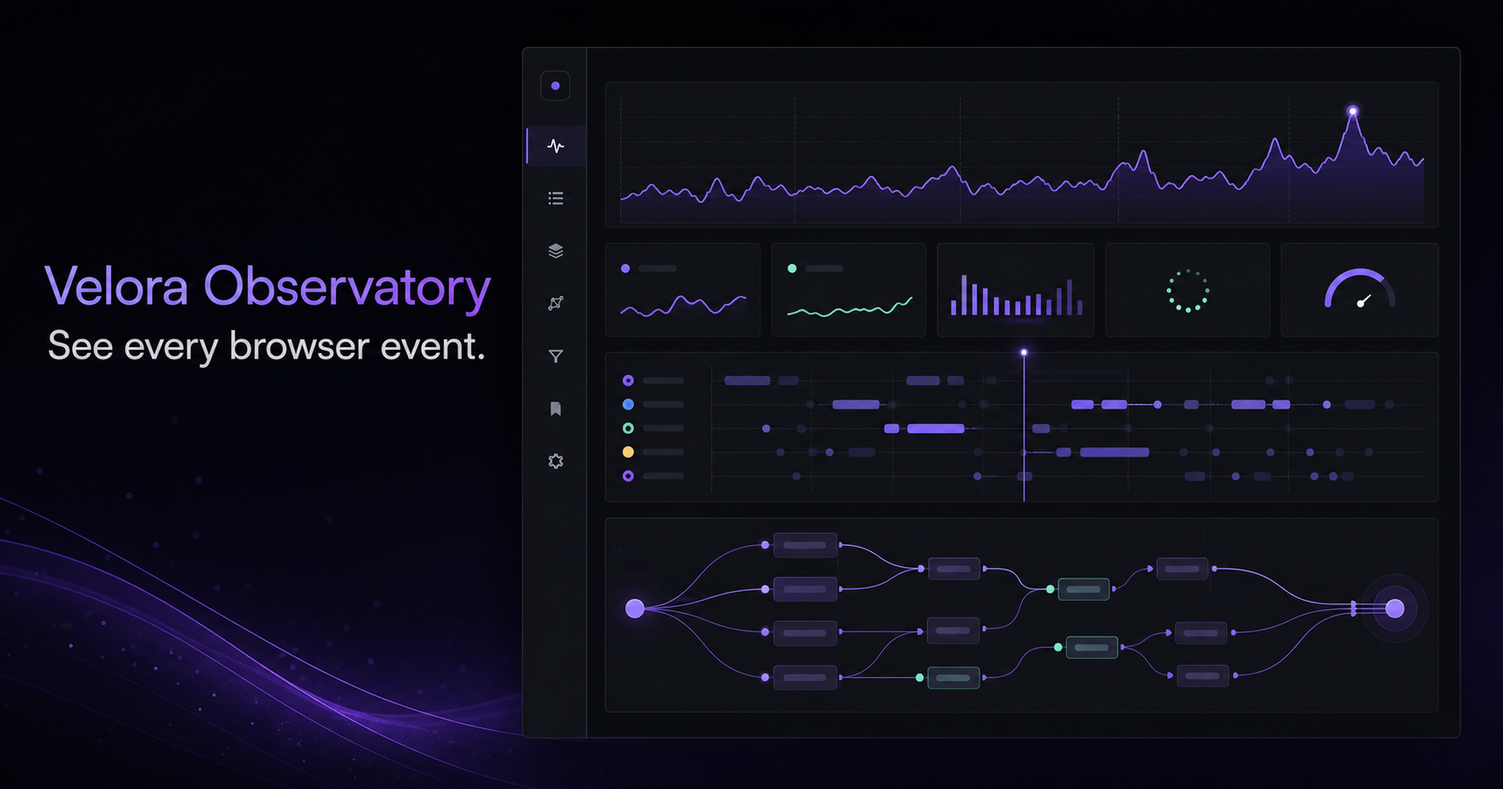
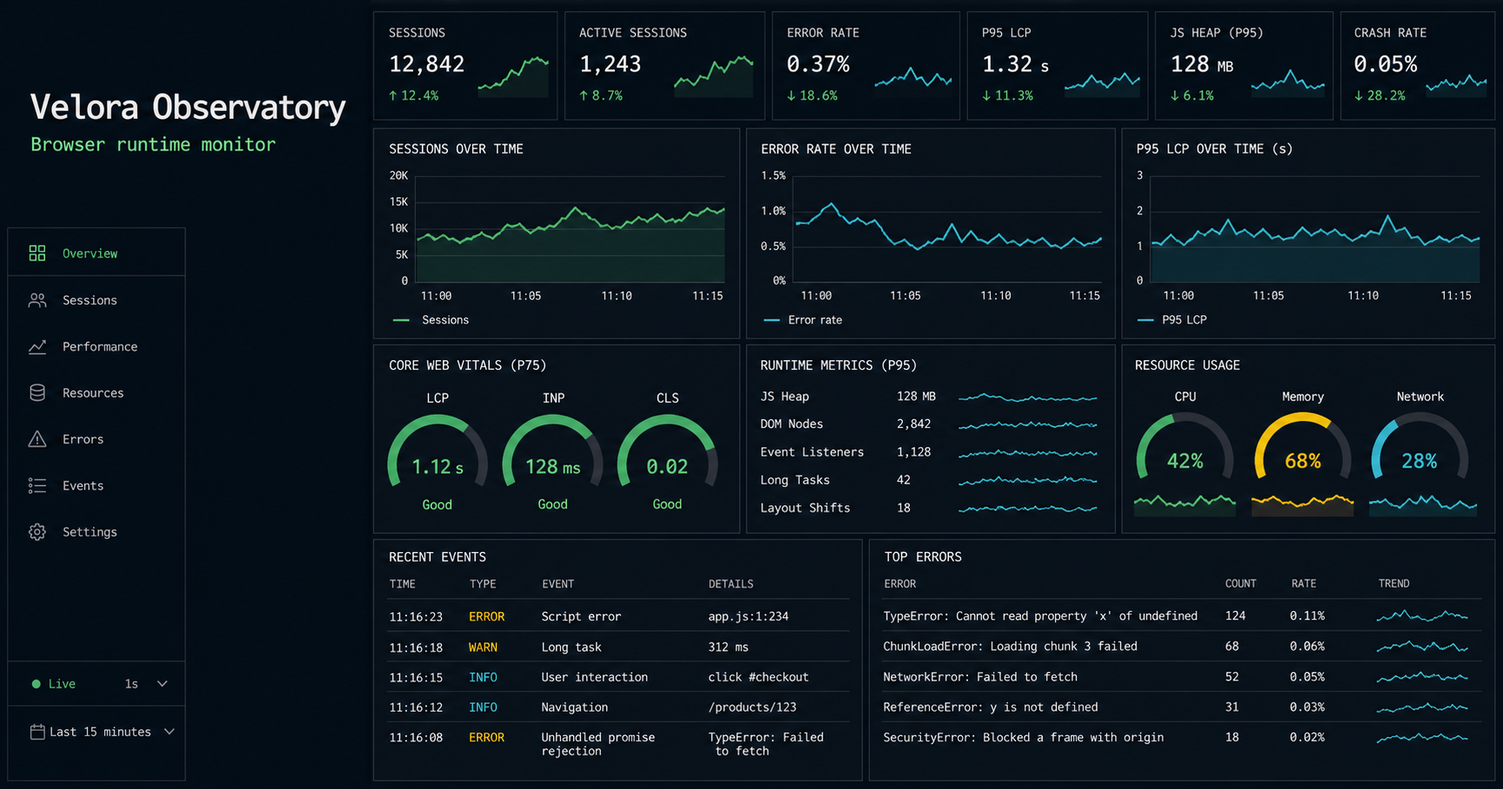
Refine Observatory monitor visual system

diff --git a/app/globals.css b/app/globals.css
@@ -2,48 +2,52 @@
 @import "@xterm/xterm/css/xterm.css";
 
 :root {
-  --bg: #080a0d;
-  --panel: #0e1116;
-  --panel-2: #11151b;
-  --border: rgba(255,255,255,.075);
-  --text: #f0f2f5;
-  --muted: #8a94a3;
-  --faint: #5d6673;
-  --violet: #8f7cff;
-  --violet-soft: rgba(143,124,255,.13);
+  --bg: oklch(0.08 0.015 260);
+  --panel: oklch(0.12 0.02 260);
+  --panel-2: oklch(0.15 0.02 260);
+  --border: oklch(0.25 0.02 260);
+  --text: oklch(0.95 0.01 240);
+  --muted: oklch(0.6 0.03 240);
+  --faint: oklch(0.46 0.025 240);
+  --primary: oklch(0.7 0.18 170);
+  --accent: oklch(0.65 0.15 150);
+  --primary-soft: oklch(0.7 0.18 170 / .12);
 }
 
 * { box-sizing: border-box; }
 html, body { margin: 0; min-height: 100%; background: var(--bg); color: var(--text); }
-body { font-family: var(--font-geist-sans), Inter, sans-serif; overflow-x: hidden; }
+body { font-family: var(--font-inter), Inter, system-ui, sans-serif; overflow-x: hidden; }
+h1, h2, h3, h4, h5, h6 { font-family: var(--font-geist-pixel-line), var(--font-jetbrains), monospace; font-weight: 400; }
 button, input, select { font: inherit; }
 button { color: inherit; }
 
-.observatory { min-height: 100vh; display: grid; grid-template-columns: 228px minmax(0,1fr); background: radial-gradient(circle at 72% -20%, rgba(113,87,255,.08), transparent 31%), var(--bg); }
-.sidebar { position: sticky; top: 0; height: 100vh; display: flex; flex-direction: column; border-right: 1px solid var(--border); background: rgba(8,10,13,.92); backdrop-filter: blur(20px); z-index: 20; }
-.brand { height: 62px; display: flex; align-items: center; gap: 10px; padding: 0 13px 0 16px; border-bottom: 1px solid var(--border); }
-.brand-mark { position: relative; width: 28px; height: 28px; border-radius: 8px; background: linear-gradient(145deg,#a797ff,#6450e6); box-shadow: 0 0 20px rgba(125,102,255,.24); overflow: hidden; }
+.observatory { min-height: 100vh; display: grid; grid-template-columns: 212px minmax(0,1fr); background: var(--bg); }
+.sidebar { position: sticky; top: 0; height: 100vh; display: flex; flex-direction: column; border-right: 1px solid var(--border); background: #090c10; z-index: 20; }
+.brand { height: 48px; display: flex; align-items: center; gap: 9px; padding: 0 8px 0 12px; border-bottom: 1px solid var(--border); }
+.brand-mark { position: relative; width: 24px; height: 24px; border-radius: 2px; background: oklch(0.58 0.15 170); overflow: hidden; }
 .brand-mark span { position: absolute; height: 2px; background: white; border-radius: 4px; transform: rotate(-35deg); }
 .brand-mark span:nth-child(1){width:17px;top:8px;left:4px}.brand-mark span:nth-child(2){width:13px;top:14px;left:8px}.brand-mark span:nth-child(3){width:8px;top:20px;left:13px}
 .brand > div:nth-child(2) { display:flex;flex-direction:column;line-height:1.05;flex:1}.brand strong{font-size:13px;letter-spacing:.01em}.brand small{font-size:10px;color:var(--muted);margin-top:4px}
-.icon-button { width:30px;height:30px;border:1px solid transparent;border-radius:7px;background:transparent;display:grid;place-items:center;color:#8892a0;cursor:pointer;transition:.15s}.icon-button:hover{background:#171b22;border-color:var(--border);color:white}
-.nav-section{padding:17px 9px 5px;display:flex;flex-direction:column;gap:3px}.nav-section--secondary{padding-top:22px}.nav-label{padding:0 9px 7px;color:#555e6a;text-transform:uppercase;font-size:9px;font-weight:700;letter-spacing:.13em}
-.nav-item{height:34px;width:100%;border:0;border-radius:7px;background:transparent;color:#818b99;display:flex;align-items:center;gap:10px;padding:0 10px;font-size:12px;cursor:pointer;text-align:left;transition:.15s}.nav-item span{flex:1}.nav-item em{font-style:normal;font-size:9px;border:1px solid var(--border);background:#171b22;padding:2px 5px;border-radius:5px;color:#77818f}.nav-item:hover{color:#d7dce3;background:rgba(255,255,255,.035)}.nav-item--active{color:white;background:linear-gradient(90deg,rgba(139,124,255,.14),rgba(139,124,255,.055));box-shadow:inset 2px 0 #8f7cff}
-.sidebar-footer{margin-top:auto;padding:8px 9px 14px;border-top:1px solid var(--border)}.usage{margin:13px 9px 0}.usage>div:first-child{display:flex;flex-direction:column;gap:4px;font-size:9px;color:#626b78}.usage strong{font-size:10px;color:#8c96a4;font-weight:500}.usage-bar{height:3px;background:#1b2027;border-radius:2px;margin-top:9px;overflow:hidden}.usage-bar span{display:block;width:32%;height:100%;background:#7c6ae8}
-.main-shell{min-width:0}.topbar{height:62px;position:sticky;top:0;z-index:15;border-bottom:1px solid var(--border);display:flex;align-items:center;justify-content:space-between;padding:0 25px;background:rgba(8,10,13,.86);backdrop-filter:blur(18px)}
-.session-switcher{border:0;background:transparent;display:flex;align-items:center;gap:9px;cursor:pointer}.session-orb{width:20px;height:20px;border-radius:6px;background:linear-gradient(135deg,#51d5a8,#1b896d);box-shadow:inset 0 0 0 1px rgba(255,255,255,.25)}.session-switcher>span:nth-child(2){display:flex;flex-direction:column;align-items:flex-start}.session-switcher small{font-size:8px;text-transform:uppercase;letter-spacing:.08em;color:#596271}.session-switcher strong{font-size:11px;margin-top:2px}
-.topbar-actions{display:flex;align-items:center;gap:10px}.command-trigger{height:30px;width:220px;border:1px solid var(--border);background:#0d1014;border-radius:7px;color:#596270;display:flex;align-items:center;gap:8px;padding:0 8px;font-size:10px;cursor:pointer}.command-trigger span{flex:1;text-align:left}.command-trigger kbd{display:flex;align-items:center;gap:2px;background:#181c23;border:1px solid #262c35;padding:2px 4px;border-radius:4px;color:#7e8793;font-size:9px}.connection,.live-pill{display:flex;align-items:center;gap:6px;color:#77818d;font-size:10px}.connection i,.live-pill i{width:6px;height:6px;border-radius:50%;background:#55d6a7;box-shadow:0 0 8px rgba(85,214,167,.8)}.avatar{width:28px;height:28px;border-radius:50%;display:grid;place-items:center;background:#272d37;color:#c9d0da;font-size:9px;font-weight:700}
-.workspace{max-width:1540px;margin:0 auto;padding:28px 30px 54px;display:flex;flex-direction:column;gap:18px}.workspace-header{display:flex;align-items:flex-end;justify-content:space-between;margin-bottom:2px}.eyebrow{text-transform:uppercase;letter-spacing:.13em;color:#7467d7;font-size:9px;font-weight:700}.workspace-header h1{font-size:25px;letter-spacing:-.035em;margin:7px 0 5px;font-weight:580}.workspace-header p{font-size:11px;color:#697380;margin:0}.live-pill{height:27px;border:1px solid rgba(85,214,167,.15);background:rgba(85,214,167,.045);padding:0 10px;border-radius:99px;color:#8b9b99}
-.metric-grid{display:grid;grid-template-columns:repeat(4,1fr);gap:12px}.metric-card,.panel-card{border:1px solid var(--border);background:linear-gradient(145deg,rgba(17,21,27,.9),rgba(11,14,18,.96));border-radius:10px}.metric-card{padding:15px 16px;min-height:112px}.metric-top{display:flex;align-items:center;justify-content:space-between;color:#77818e;font-size:10px}.metric-card>strong{display:block;font-size:25px;letter-spacing:-.04em;margin:15px 0 8px}.delta{display:inline-flex;align-items:center;gap:3px;font-size:9px;color:#e38484}.delta--positive{color:#5dd2a6}
-.content-grid{display:grid;grid-template-columns:minmax(0,1.75fr) minmax(260px,.75fr);gap:12px}.panel-card{overflow:hidden}.card-header{padding:14px 15px 10px;display:flex;align-items:flex-start;justify-content:space-between}.card-header h2{font-size:11px;margin:0;display:flex;align-items:center;gap:7px;font-weight:550}.card-header p{font-size:9px;color:#606a77;margin:5px 0 0}.health-stack{padding:8px 16px 20px;display:flex;flex-direction:column;gap:18px}.health-row>div:first-child{display:flex;justify-content:space-between;font-size:10px;color:#76808d}.health-row strong{color:#c3cad4;font-weight:500}.health-bar{height:4px;margin-top:8px;background:#1b2027;border-radius:8px;overflow:hidden}.health-bar__fill{display:block;height:100%;border-radius:8px}.health-bar__fill--violet{background:#8b7cff}.health-bar__fill--blue{background:#5ba4f4}.health-bar__fill--mint{background:#50cfa0}.health-bar__fill--amber{background:#d8a651}
-.event-table{font-size:10px;min-width:660px}.event-row{display:grid;grid-template-columns:minmax(170px,1.5fr) .65fr minmax(120px,1fr) .55fr .5fr;align-items:center;min-height:39px;padding:0 15px;border-top:1px solid rgba(255,255,255,.045);color:#8b94a0}.event-row>span:first-child{color:#c8ced7;display:flex;align-items:center;gap:8px;white-space:nowrap;overflow:hidden;text-overflow:ellipsis}.event-row--header{min-height:31px;color:#4f5864;text-transform:uppercase;letter-spacing:.08em;font-size:8px}.event-row--header>span:first-child{color:#4f5864}.event-dot{width:5px;height:5px;border-radius:50%;background:#5ccfa1;flex:none}.event-dot--warning{background:#e2ac52}.event-dot--error{background:#e77b7b}.tag{width:max-content;padding:3px 6px;border-radius:4px;background:#181c23;color:#77818d}.mono{font-family:var(--font-geist-mono);font-size:9px}.status-text{text-transform:capitalize}.status-text--ok{color:#59c99c}.status-text--warning{color:#dca950}.status-text--error{color:#dd7777}.empty-row{padding:26px;text-align:center;color:#5e6875}
-.timeline-shell{border:1px solid var(--border);border-radius:10px;background:#0b0e12;padding:16px;overflow:hidden}.timeline-ruler{margin-left:90px;display:flex;justify-content:space-between;color:#4c5561;font-size:8px;padding-bottom:8px}.timeline-lanes{display:flex;flex-direction:column}.timeline-lane{display:grid;grid-template-columns:82px 1fr;min-height:52px;border-top:1px solid rgba(255,255,255,.045)}.timeline-label{display:flex;align-items:center;color:#717b88;font-size:9px;text-transform:capitalize}.timeline-track{position:relative;background:repeating-linear-gradient(90deg,transparent 0,transparent calc(20% - 1px),rgba(255,255,255,.035) 20%);overflow:hidden}.timeline-span{position:absolute;top:15px;height:20px;border:0;border-radius:3px;background:#6558c7;min-width:3px;cursor:pointer}.timeline-span--warning{background:#9b763f}.timeline-span--error{background:#934d55}
-.toolbar{display:flex;align-items:center;justify-content:space-between;color:#5f6976;font-size:10px}.search-input,.select-control{height:32px;border:1px solid var(--border);background:#0d1014;color:#bbc2cc;border-radius:7px;outline:none;padding:0 10px;font-size:10px}.search-input{width:min(390px,50vw)}.search-input:focus,.select-control:focus{border-color:#665bc2}
-.graph-node{width:168px;height:62px;background:#12161c;border:1px solid #282f39;border-radius:8px;padding:8px 10px;display:grid;grid-template-columns:1fr auto;gap:4px;box-shadow:0 8px 20px rgba(0,0,0,.28)}.graph-node strong{grid-column:1/-1;font-size:9px;overflow:hidden;white-space:nowrap;text-overflow:ellipsis}.graph-node span{font-size:8px;color:#727c8a}.graph-node__kind{text-transform:uppercase;letter-spacing:.08em;color:#8c7ffc!important}.graph-node--warning{border-color:#665333}.graph-node--error{border-color:#673c44}.observatory-controls button{background:#14181e!important;border-color:#292f38!important;color:#9aa3af!important}
-.replay-hero{min-height:125px;border:1px solid var(--border);border-radius:10px;background:radial-gradient(circle at 15% 0,rgba(139,124,255,.13),transparent 40%),#0d1014;padding:22px;display:flex;justify-content:space-between;align-items:center}.replay-kicker{font-size:9px;text-transform:uppercase;color:#8d7eff;letter-spacing:.12em}.replay-hero h3{font-size:16px;margin:9px 0 5px}.replay-hero p{font-size:10px;color:#69727f;margin:0}.primary-button{height:33px;border:1px solid #8878ef;border-radius:7px;padding:0 13px;background:linear-gradient(#8d7df4,#6f60d4);color:white;font-size:10px;cursor:pointer}.replay-track{height:5px;border-radius:8px;background:#1b2027;overflow:hidden}.replay-progress{display:block;height:100%;width:38%;background:#8373eb}.replay-progress--active{animation:replay 4s linear infinite}@keyframes replay{from{transform:translateX(-100%)}to{transform:translateX(265%)}}
-.panel-loader{height:520px;display:grid;place-items:center;border:1px solid var(--border);border-radius:10px;color:#596270;font-size:11px}.panel-loader span{width:22px;height:22px;border:2px solid #282e37;border-top-color:#8b7cff;border-radius:50%;animation:spin .8s linear infinite}@keyframes spin{to{transform:rotate(360deg)}}
-.editor-shell,.terminal-shell{border:1px solid var(--border);border-radius:10px;background:#090b0e;overflow:hidden}.editor-tabs{height:37px;border-bottom:1px solid var(--border);display:flex;align-items:flex-end;padding-left:8px}.editor-tab{height:30px;padding:0 13px;display:flex;align-items:center;color:#5f6977;font-size:10px;border-bottom:1px solid transparent}.editor-tab--active{color:#c5ccd6;background:#11151a;border-bottom-color:#8f7cff}.tooling-loader{height:560px;display:grid;place-items:center;color:#606a77;font-size:11px}.terminal-title{height:38px;border-bottom:1px solid var(--border);display:flex;align-items:center;gap:6px;padding:0 12px}.terminal-title i{width:8px;height:8px;border-radius:50%;background:#e06d74}.terminal-title i:nth-child(2){background:#d7a44f}.terminal-title i:nth-child(3){background:#55c998}.terminal-title span{margin-left:8px;color:#606a77;font-size:9px}.terminal-surface{height:540px;padding:12px}
+.icon-button { width:28px;height:28px;border:1px solid transparent;border-radius:2px;background:transparent;display:grid;place-items:center;color:#8892a0;cursor:pointer;transition:.15s}.icon-button:hover{background:#171b22;border-color:var(--border);color:white}
+.nav-section{padding:12px 0 4px;display:flex;flex-direction:column;gap:0}.nav-section--secondary{padding-top:14px}.nav-label{padding:0 12px 7px;color:#555e6a;text-transform:uppercase;font-size:9px;font-weight:700;letter-spacing:.13em}
+.nav-item{height:32px;width:100%;border:0;border-radius:0;background:transparent;color:#818b99;display:flex;align-items:center;gap:9px;padding:0 12px;font-size:11px;cursor:pointer;text-align:left;transition:.12s}.nav-item span{flex:1}.nav-item em{font-style:normal;font-size:8px;border:0;background:#20262d;padding:2px 4px;border-radius:2px;color:#77818f}.nav-item:hover{color:#d7dce3;background:#14191f}.nav-item--active{color:var(--text);background:#18201e;box-shadow:inset 3px 0 var(--primary)}
+.sidebar-footer{margin-top:auto;padding:6px 0 12px;border-top:1px solid var(--border)}.usage{margin:11px 12px 0}.usage>div:first-child{display:flex;flex-direction:column;gap:4px;font-size:9px;color:#626b78}.usage strong{font-size:10px;color:#8c96a4;font-weight:500}.usage-bar{height:3px;background:#1b2027;margin-top:9px;overflow:hidden}.usage-bar span{display:block;width:32%;height:100%;background:var(--primary)}
+.main-shell{min-width:0}.topbar{height:48px;position:sticky;top:0;z-index:15;border-bottom:1px solid var(--border);display:flex;align-items:center;justify-content:space-between;padding:0 16px;background:#0a0d11}
+.session-switcher{border:0;background:transparent;display:flex;align-items:center;gap:8px;cursor:pointer}.session-orb{width:18px;height:18px;border-radius:2px;background:#278c6a;box-shadow:inset 0 0 0 1px rgba(255,255,255,.18)}.session-switcher>span:nth-child(2){display:flex;flex-direction:column;align-items:flex-start}.session-switcher small{font-size:7px;text-transform:uppercase;letter-spacing:.08em;color:#596271}.session-switcher strong{font-size:10px;margin-top:1px}
+.topbar-actions{display:flex;align-items:center;gap:8px}.command-trigger{height:28px;width:220px;border:1px solid var(--border);background:#0d1014;border-radius:2px;color:#596270;display:flex;align-items:center;gap:8px;padding:0 8px;font-size:10px;cursor:pointer}.command-trigger span{flex:1;text-align:left}.command-trigger kbd{display:flex;align-items:center;gap:2px;background:#181c23;border:1px solid #262c35;padding:2px 4px;border-radius:2px;color:#7e8793;font-size:9px}.connection,.live-pill{display:flex;align-items:center;gap:6px;color:#77818d;font-size:10px}.connection i,.live-pill i{width:6px;height:6px;border-radius:50%;background:#55d6a7}.avatar{width:26px;height:26px;border-radius:2px;display:grid;place-items:center;background:#272d37;color:#c9d0da;font-size:9px;font-weight:700}
+.workspace{max-width:none;margin:0;padding:14px 14px 36px;display:flex;flex-direction:column;gap:8px}.workspace-header{display:flex;align-items:flex-end;justify-content:space-between;margin-bottom:2px;padding:0 2px 4px}.eyebrow{text-transform:uppercase;letter-spacing:.13em;color:var(--primary);font-size:8px;font-weight:700}.workspace-header h1{font-size:20px;letter-spacing:-.02em;margin:5px 0 3px}.workspace-header p{font-size:10px;color:#697380;margin:0}.live-pill{height:26px;border:1px solid var(--border);background:#101519;padding:0 8px;border-radius:2px;color:#8b9b99}
+.metric-grid{display:grid;grid-template-columns:repeat(4,1fr);gap:6px}.metric-card,.panel-card{border:1px solid var(--border);background:#0f1318;border-radius:2px}.metric-card{padding:10px 12px;min-height:82px}.metric-top{display:flex;align-items:center;justify-content:space-between;color:#77818e;font-size:9px}.metric-card>strong{display:block;font-family:var(--font-jetbrains),monospace;font-size:20px;letter-spacing:-.04em;margin:9px 0 5px}.delta{display:inline-flex;align-items:center;gap:3px;font-size:9px;color:#e38484}.delta--positive{color:#5dd2a6}
+.content-grid{display:grid;grid-template-columns:minmax(0,1.75fr) minmax(260px,.75fr);gap:8px}.panel-card{overflow:hidden}.card-header{min-height:46px;padding:10px 12px 8px;display:flex;align-items:flex-start;justify-content:space-between;border-bottom:1px solid rgba(255,255,255,.035)}.card-header h2{font-family:var(--font-inter),sans-serif;font-size:11px;margin:0;display:flex;align-items:center;gap:7px;font-weight:600}.card-header p{font-size:9px;color:#606a77;margin:4px 0 0}.health-stack{padding:12px 14px 16px;display:flex;flex-direction:column;gap:15px}.health-row>div:first-child{display:flex;justify-content:space-between;font-size:10px;color:#76808d}.health-row strong{color:#c3cad4;font-family:var(--font-jetbrains),monospace;font-weight:500}.health-bar{height:4px;margin-top:8px;background:#1b2027;border-radius:8px;overflow:hidden}.health-bar__fill{display:block;height:100%;border-radius:8px}.health-bar__fill--primary{background:var(--primary)}.health-bar__fill--blue{background:#4bb6c9}.health-bar__fill--mint{background:#50cfa0}.health-bar__fill--amber{background:#d8a651}
+.monitor-grid{display:grid;grid-template-columns:repeat(12,minmax(0,1fr));gap:6px}.monitor-panel{min-height:190px}.monitor-panel--throughput{grid-column:span 8;min-height:300px}.monitor-panel--health{grid-column:span 4;min-height:300px}.monitor-panel:not(.monitor-panel--throughput):not(.monitor-panel--health){grid-column:span 4}.monitor-panel--events{min-height:auto}.dashboard-controls{display:flex;align-items:center;gap:4px}.toolbar-button{height:26px;border:1px solid var(--border);background:#101419;border-radius:2px;padding:0 8px;color:#8993a0;display:flex;align-items:center;gap:6px;font-size:9px;cursor:pointer}.toolbar-button:hover{border-color:oklch(0.7 0.18 170 / .45);color:var(--text)}.status-distribution{display:flex;align-items:center;justify-content:center;gap:25px;padding:18px 12px}.status-ring{width:104px;height:104px;border-radius:50%;display:grid;place-items:center;background:conic-gradient(var(--primary) 0 357deg,#d8a651 357deg 359deg,#d56b76 359deg);position:relative}.status-ring:after{content:"";position:absolute;inset:12px;border-radius:50%;background:var(--panel)}.status-ring>span{position:relative;z-index:1;display:flex;flex-direction:column;text-align:center}.status-ring strong{font-family:var(--font-jetbrains),monospace;font-size:16px}.status-ring small{font-size:8px;color:var(--muted)}.status-legend{display:flex;flex-direction:column;gap:10px;font-size:9px;color:#7a8491}.status-legend span{display:grid;grid-template-columns:8px 1fr auto;align-items:center;gap:7px;min-width:130px}.status-legend strong{font-family:var(--font-jetbrains),monospace;color:#c5ccd5;font-weight:500}.legend-dot{width:6px;height:6px;border-radius:1px;background:var(--primary)}.legend-dot--warn{background:#d8a651}.legend-dot--error{background:#d56b76}.subsystem-bars{padding:14px;display:flex;flex-direction:column;gap:13px}.subsystem-row>div:first-child{display:flex;justify-content:space-between;color:#7b8592;font-size:9px}.subsystem-row strong{font-family:var(--font-jetbrains),monospace;color:#c4cbd4;font-weight:500}.subsystem-row>div:last-child{height:16px;background:#171c22;margin-top:5px;position:relative}.subsystem-row>div:last-child span{display:block;height:100%;background:var(--primary);opacity:.8}.gauge-stack{padding:13px;display:grid;grid-template-columns:repeat(3,1fr);gap:6px}.mini-gauge{min-width:0;padding:12px 9px;background:#0d1115;border:1px solid rgba(255,255,255,.06)}.mini-gauge>span{display:block;color:#6f7986;font-size:8px;text-transform:uppercase}.mini-gauge>strong{display:block;font-family:var(--font-jetbrains),monospace;font-size:16px;margin:8px 0 10px}.mini-gauge>div{height:3px;background:#20262d}.mini-gauge i{display:block;height:100%;background:var(--primary)}.mini-gauge--warn i{background:#d8a651}
+.event-table{font-size:10px;min-width:660px}.event-row{display:grid;grid-template-columns:minmax(170px,1.5fr) .65fr minmax(120px,1fr) .55fr .5fr;align-items:center;min-height:36px;padding:0 12px;border-top:1px solid rgba(255,255,255,.045);color:#8b94a0}.event-row>span:first-child{color:#c8ced7;display:flex;align-items:center;gap:8px;white-space:nowrap;overflow:hidden;text-overflow:ellipsis}.event-row--header{min-height:29px;color:#4f5864;text-transform:uppercase;letter-spacing:.08em;font-size:8px}.event-row--header>span:first-child{color:#4f5864}.event-dot{width:5px;height:5px;border-radius:50%;background:#5ccfa1;flex:none}.event-dot--warning{background:#e2ac52}.event-dot--error{background:#e77b7b}.tag{width:max-content;padding:3px 6px;border-radius:3px;background:#181c23;color:#77818d}.mono{font-family:var(--font-jetbrains),monospace;font-size:9px}.status-text{text-transform:capitalize}.status-text--ok{color:#59c99c}.status-text--warning{color:#dca950}.status-text--error{color:#dd7777}.empty-row{padding:26px;text-align:center;color:#5e6875}
+.timeline-shell{border:1px solid var(--border);border-radius:4px;background:#0b0e12;padding:16px;overflow:hidden}.timeline-ruler{margin-left:90px;display:flex;justify-content:space-between;color:#4c5561;font-size:8px;padding-bottom:8px}.timeline-lanes{display:flex;flex-direction:column}.timeline-lane{display:grid;grid-template-columns:82px 1fr;min-height:52px;border-top:1px solid rgba(255,255,255,.045)}.timeline-label{display:flex;align-items:center;color:#717b88;font-size:9px;text-transform:capitalize}.timeline-track{position:relative;background:repeating-linear-gradient(90deg,transparent 0,transparent calc(20% - 1px),rgba(255,255,255,.035) 20%);overflow:hidden}.timeline-span{position:absolute;top:15px;height:20px;border:0;border-radius:2px;background:var(--primary);min-width:3px;cursor:pointer}.timeline-span--warning{background:#9b763f}.timeline-span--error{background:#934d55}
+.toolbar{display:flex;align-items:center;justify-content:space-between;color:#5f6976;font-size:10px}.search-input,.select-control{height:32px;border:1px solid var(--border);background:#0d1014;color:#bbc2cc;border-radius:4px;outline:none;padding:0 10px;font-size:10px}.search-input{width:min(390px,50vw)}.search-input:focus,.select-control:focus{border-color:var(--primary)}
+.graph-node{width:168px;height:62px;background:#12161c;border:1px solid #282f39;border-radius:4px;padding:8px 10px;display:grid;grid-template-columns:1fr auto;gap:4px;box-shadow:0 8px 20px rgba(0,0,0,.28)}.graph-node strong{grid-column:1/-1;font-family:var(--font-inter),sans-serif;font-size:9px;overflow:hidden;white-space:nowrap;text-overflow:ellipsis}.graph-node span{font-size:8px;color:#727c8a}.graph-node__kind{text-transform:uppercase;letter-spacing:.08em;color:var(--primary)!important}.graph-node--warning{border-color:#665333}.graph-node--error{border-color:#673c44}.observatory-controls button{background:#14181e!important;border-color:#292f38!important;color:#9aa3af!important}
+.replay-hero{min-height:125px;border:1px solid var(--border);border-radius:4px;background:radial-gradient(circle at 15% 0,oklch(0.7 0.18 170 / .12),transparent 40%),#0d1014;padding:22px;display:flex;justify-content:space-between;align-items:center}.replay-kicker{font-size:9px;text-transform:uppercase;color:var(--primary);letter-spacing:.12em}.replay-hero h3{font-size:16px;margin:9px 0 5px}.replay-hero p{font-size:10px;color:#69727f;margin:0}.primary-button{height:33px;border:1px solid oklch(0.7 0.18 170 / .7);border-radius:4px;padding:0 13px;background:linear-gradient(oklch(0.7 0.18 170),oklch(0.54 0.14 175));color:#07110e;font-weight:650;font-size:10px;cursor:pointer}.replay-track{height:5px;border-radius:8px;background:#1b2027;overflow:hidden}.replay-progress{display:block;height:100%;width:38%;background:var(--primary)}.replay-progress--active{animation:replay 4s linear infinite}@keyframes replay{from{transform:translateX(-100%)}to{transform:translateX(265%)}}
+.panel-loader{height:520px;display:grid;place-items:center;border:1px solid var(--border);border-radius:4px;color:#596270;font-size:11px}.panel-loader span{width:22px;height:22px;border:2px solid #282e37;border-top-color:var(--primary);border-radius:50%;animation:spin .8s linear infinite}@keyframes spin{to{transform:rotate(360deg)}}
+.editor-shell,.terminal-shell{border:1px solid var(--border);border-radius:4px;background:#090b0e;overflow:hidden}.editor-tabs{height:37px;border-bottom:1px solid var(--border);display:flex;align-items:flex-end;padding-left:8px}.editor-tab{height:30px;padding:0 13px;display:flex;align-items:center;color:#5f6977;font-size:10px;border-bottom:1px solid transparent}.editor-tab--active{color:#c5ccd6;background:#11151a;border-bottom-color:var(--primary)}.tooling-loader{height:560px;display:grid;place-items:center;color:#606a77;font-size:11px}.terminal-title{height:38px;border-bottom:1px solid var(--border);display:flex;align-items:center;gap:6px;padding:0 12px}.terminal-title i{width:8px;height:8px;border-radius:50%;background:#e06d74}.terminal-title i:nth-child(2){background:#d7a44f}.terminal-title i:nth-child(3){background:#55c998}.terminal-title span{margin-left:8px;color:#606a77;font-size:9px}.terminal-surface{height:540px;padding:12px}
 .observatory--collapsed{grid-template-columns:58px minmax(0,1fr)}.observatory--collapsed .nav-item span,.observatory--collapsed .nav-item em{display:none}.observatory--collapsed .sidebar-toggle{display:none}.observatory--collapsed .nav-item{justify-content:center;padding:0}.observatory--collapsed .brand{padding:0;justify-content:center}.observatory--collapsed .brand-mark{width:26px;height:26px}
 
-@media(max-width:900px){.observatory{grid-template-columns:58px minmax(0,1fr)}.sidebar .nav-item span,.sidebar .nav-item em,.sidebar .brand>div:nth-child(2),.sidebar .usage,.nav-label,.sidebar-toggle{display:none}.sidebar .nav-item{justify-content:center;padding:0}.brand{padding:0;justify-content:center}.metric-grid{grid-template-columns:repeat(2,1fr)}.content-grid{grid-template-columns:1fr}.command-trigger{width:34px}.command-trigger span,.command-trigger kbd{display:none}}
+@media(max-width:1100px){.monitor-panel--throughput{grid-column:span 7}.monitor-panel--health{grid-column:span 5}.monitor-panel:not(.monitor-panel--throughput):not(.monitor-panel--health){grid-column:span 6}}
+@media(max-width:900px){.observatory{grid-template-columns:58px minmax(0,1fr)}.sidebar .nav-item span,.sidebar .nav-item em,.sidebar .brand>div:nth-child(2),.sidebar .usage,.nav-label,.sidebar-toggle{display:none}.sidebar .nav-item{justify-content:center;padding:0}.brand{padding:0;justify-content:center}.metric-grid{grid-template-columns:repeat(2,1fr)}.content-grid{grid-template-columns:1fr}.monitor-panel--throughput,.monitor-panel--health,.monitor-panel:not(.monitor-panel--throughput):not(.monitor-panel--health){grid-column:span 12}.command-trigger{width:34px}.command-trigger span,.command-trigger kbd{display:none}.dashboard-controls .live-pill{display:none}}
 @media(max-width:620px){.workspace{padding:20px 14px 40px}.topbar{padding:0 12px}.connection{display:none}.metric-grid{grid-template-columns:1fr 1fr;gap:8px}.metric-card{padding:12px;min-height:98px}.metric-card>strong{font-size:20px}.workspace-header{align-items:flex-start;gap:14px}.workspace-header h1{font-size:22px}.event-table{overflow-x:auto}.replay-hero{align-items:flex-start;gap:22px;flex-direction:column}}

diff --git a/src/components/panels.tsx b/src/components/panels.tsx
@@ -1,7 +1,7 @@
 "use client";
 
 import dynamic from "next/dynamic";
-import { Activity, ArrowDownRight, ArrowUpRight, CircleDot, Clock3, Cpu, Database, Gauge, Network } from "lucide-react";
+import { Activity, ArrowDownRight, ArrowUpRight, CircleDot, Clock3, Cpu, Database, Gauge, Network, RefreshCw, Share2 } from "lucide-react";
 import { RealtimeChart } from "@/src/components/realtime-chart";
 import { useGraphStore, useNetworkStore, useReplayStore, useSelectionStore, useTelemetryStore } from "@/src/stores";
 
@@ -18,10 +18,10 @@ export function OverviewPanel() {
 
   return (
     <PanelFrame
-      eyebrow="Live session / velora-local-01"
-      title="Runtime overview"
-      description="One correlated view across browser execution, resources, and scheduling."
-      actions={<LivePill />}
+      eyebrow="Dashboards / Browser runtime"
+      title="Velora runtime monitor"
+      description="Live operational view across execution, resources, scheduling, and transport."
+      actions={<DashboardControls />}
     >
       <div className="metric-grid">
         <Metric label="Events ingested" value={formatNumber(total)} delta="+18.4%" icon={Activity} />
@@ -29,22 +29,50 @@ export function OverviewPanel() {
         <Metric label="Error signals" value={String(errors)} delta="0.07%" icon={CircleDot} />
         <Metric label="Worker load" value="38%" delta="healthy" positive icon={Cpu} />
       </div>
-      <div className="content-grid">
-        <section className="panel-card panel-card--wide">
+      <div className="monitor-grid">
+        <section className="panel-card monitor-panel monitor-panel--throughput">
           <CardHeader title="Event throughput" subtitle="Incremental ring buffer · 60 second window" icon={Gauge} />
           <RealtimeChart />
         </section>
-        <section className="panel-card">
+        <section className="panel-card monitor-panel monitor-panel--health">
           <CardHeader title="Runtime health" subtitle="Current execution profile" icon={Database} />
           <div className="health-stack">
-            <HealthRow label="Main thread" value="12.8 ms" tone="violet" width="42%" />
+            <HealthRow label="Main thread" value="12.8 ms" tone="primary" width="42%" />
             <HealthRow label="Scheduler queue" value="4 tasks" tone="blue" width="27%" />
             <HealthRow label="JS heap" value="84.2 MB" tone="mint" width="58%" />
             <HealthRow label="DOM nodes" value="12,481" tone="amber" width="36%" />
           </div>
         </section>
+        <section className="panel-card monitor-panel">
+          <CardHeader title="Event status" subtitle="Last 10,000 signals" icon={CircleDot} />
+          <div className="status-distribution">
+            <div className="status-ring"><span><strong>99.3%</strong><small>healthy</small></span></div>
+            <div className="status-legend">
+              <span><i className="legend-dot legend-dot--ok" />Normal <strong>9,931</strong></span>
+              <span><i className="legend-dot legend-dot--warn" />Warning <strong>54</strong></span>
+              <span><i className="legend-dot legend-dot--error" />Error <strong>15</strong></span>
+            </div>
+          </div>
+        </section>
+        <section className="panel-card monitor-panel">
+          <CardHeader title="Subsystem latency" subtitle="P95 by pipeline stage" icon={Cpu} />
+          <div className="subsystem-bars">
+            <SubsystemBar label="Network" value="128 ms" width="78%" />
+            <SubsystemBar label="JavaScript" value="42 ms" width="52%" />
+            <SubsystemBar label="Render" value="28 ms" width="38%" />
+            <SubsystemBar label="Scheduler" value="12 ms" width="22%" />
+          </div>
+        </section>
+        <section className="panel-card monitor-panel">
+          <CardHeader title="Resource pressure" subtitle="Current saturation" icon={Activity} />
+          <div className="gauge-stack">
+            <MiniGauge label="CPU" value="38%" tone="ok" />
+            <MiniGauge label="Memory" value="61%" tone="warn" />
+            <MiniGauge label="Queue" value="24%" tone="ok" />
+          </div>
+        </section>
       </div>
-      <section className="panel-card">
+      <section className="panel-card monitor-panel monitor-panel--events">
         <CardHeader title="Recent signals" subtitle="Normalized events from the telemetry pipeline" icon={Network} />
         <EventTable events={events.slice(-9).reverse()} />
       </section>
@@ -163,6 +191,18 @@ function CardHeader({ title, subtitle, icon: Icon }: { title: string; subtitle: 
 
 function HealthRow({ label, value, width, tone }: { label: string; value: string; width: string; tone: string }) {
   return <div className="health-row"><div><span>{label}</span><strong>{value}</strong></div><div className="health-bar"><span className={`health-bar__fill health-bar__fill--${tone}`} style={{ width }} /></div></div>;
+}
+
+function DashboardControls() {
+  return <div className="dashboard-controls"><LivePill /><button className="toolbar-button"><Clock3 size={13} />Last 5 minutes</button><button className="toolbar-button" aria-label="Refresh dashboard"><RefreshCw size={13} />5s</button><button className="icon-button" aria-label="Share dashboard"><Share2 size={14} /></button></div>;
+}
+
+function SubsystemBar({ label, value, width }: { label: string; value: string; width: string }) {
+  return <div className="subsystem-row"><div><span>{label}</span><strong>{value}</strong></div><div><span style={{ width }} /></div></div>;
+}
+
+function MiniGauge({ label, value, tone }: { label: string; value: string; tone: "ok" | "warn" }) {
+  return <div className={`mini-gauge mini-gauge--${tone}`}><span>{label}</span><strong>{value}</strong><div><i style={{ width: value }} /></div></div>;
 }
 
 function EventTable({ events, network }: { events: ReturnType<typeof useTelemetryStore.getState>["events"]; network?: boolean }) {

diff --git a/src/components/execution-graph.tsx b/src/components/execution-graph.tsx
@@ -36,7 +36,7 @@ function PulseEdge(props: EdgeProps) {
   return (
     <>
       <BaseEdge path={path} markerEnd={props.markerEnd} style={{ stroke: "#3b4350" }} />
-      <circle r="2.5" fill="#9d8cff">
+      <circle r="2.5" fill="#42d9a0">
         <animateMotion dur="1.8s" repeatCount="indefinite" path={path} />
       </circle>
     </>
@@ -79,7 +79,7 @@ export function ExecutionGraph() {
   }, [graphEdges, graphNodes, layout]);
 
   return (
-    <div className="h-[520px] overflow-hidden rounded-xl border border-white/[.07] bg-[#0b0d10]">
+    <div className="h-[520px] overflow-hidden rounded-[4px] border border-white/[.07] bg-[#0b0d10]">
       <ReactFlow
         nodes={nodes}
         edges={edges}
@@ -95,7 +95,7 @@ export function ExecutionGraph() {
           pannable
           zoomable
           maskColor="rgba(8,10,12,.78)"
-          nodeColor="#7669e7"
+          nodeColor="#42c997"
           className="!border !border-white/10 !bg-[#11141a]"
         />
         <Controls className="observatory-controls" />

diff --git a/app/layout.tsx b/app/layout.tsx
@@ -1,15 +1,16 @@
 import type { Metadata } from "next";
 import { headers } from "next/headers";
-import { Geist, Geist_Mono } from "next/font/google";
+import { Inter, JetBrains_Mono } from "next/font/google";
+import { GeistPixelLine } from "geist/font/pixel";
 import "./globals.css";
 
-const geistSans = Geist({
-  variable: "--font-geist-sans",
+const inter = Inter({
+  variable: "--font-inter",
   subsets: ["latin"],
 });
 
-const geistMono = Geist_Mono({
-  variable: "--font-geist-mono",
+const jetbrainsMono = JetBrains_Mono({
+  variable: "--font-jetbrains",
   subsets: ["latin"],
 });
 
@@ -48,7 +49,7 @@ export default function RootLayout({
   return (
     <html lang="en" className="dark">
       <body
-        className={`${geistSans.variable} ${geistMono.variable} antialiased`}
+        className={`${inter.variable} ${jetbrainsMono.variable} ${GeistPixelLine.variable} antialiased`}
       >
         {children}
       </body>

diff --git a/src/components/realtime-chart.tsx b/src/components/realtime-chart.tsx
@@ -59,11 +59,11 @@ export function RealtimeChart() {
           data: rate,
           showSymbol: false,
           sampling: "lttb",
-          lineStyle: { color: "#8b7cff", width: 1.5 },
+          lineStyle: { color: "#42d9a0", width: 1.5 },
           areaStyle: {
             color: new echarts.graphic.LinearGradient(0, 0, 0, 1, [
-              { offset: 0, color: "rgba(139,124,255,.28)" },
-              { offset: 1, color: "rgba(139,124,255,0)" },
+              { offset: 0, color: "rgba(66,217,160,.26)" },
+              { offset: 1, color: "rgba(66,217,160,0)" },
             ]),
           },
         },

diff --git a/src/components/tooling-panels.tsx b/src/components/tooling-panels.tsx
@@ -39,7 +39,7 @@ export function ConsolePanel() {
     void import("@xterm/xterm").then(({ Terminal }) => {
       if (disposed || !ref.current) return;
       terminal = new Terminal({
-        theme: { background: "#090b0e", foreground: "#bac2ce", cursor: "#8f7cff", green: "#56d0a2", red: "#e07c83" },
+        theme: { background: "#090b0e", foreground: "#bac2ce", cursor: "#42d9a0", green: "#56d0a2", red: "#e07c83" },
         fontFamily: "var(--font-geist-mono)",
         fontSize: 12,
         convertEol: true,
